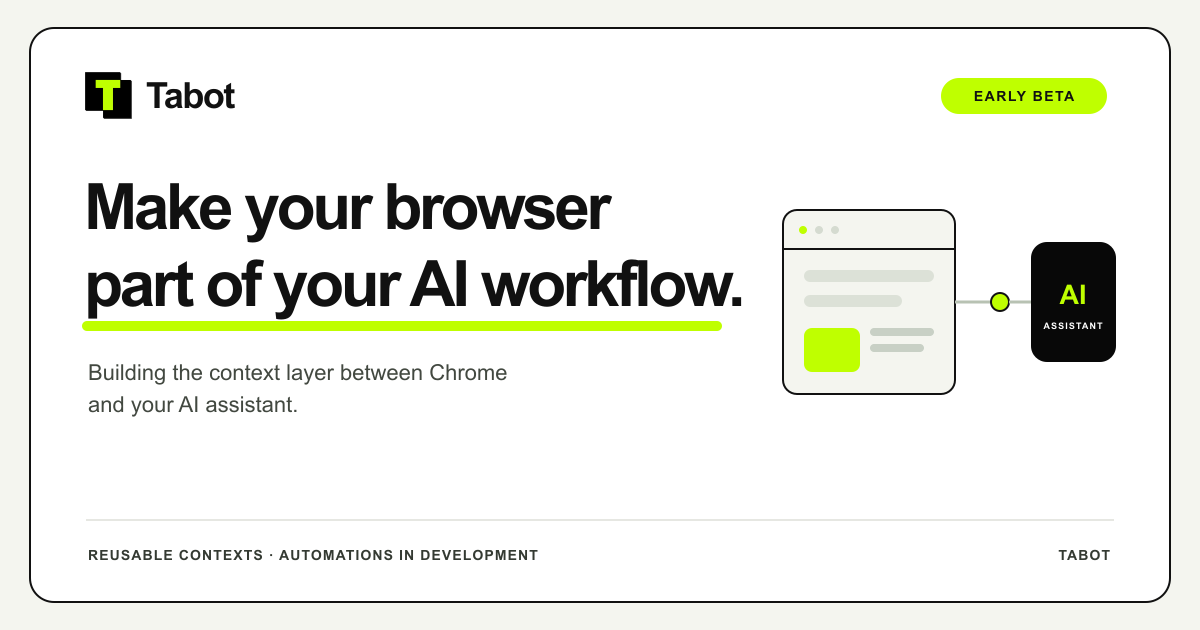
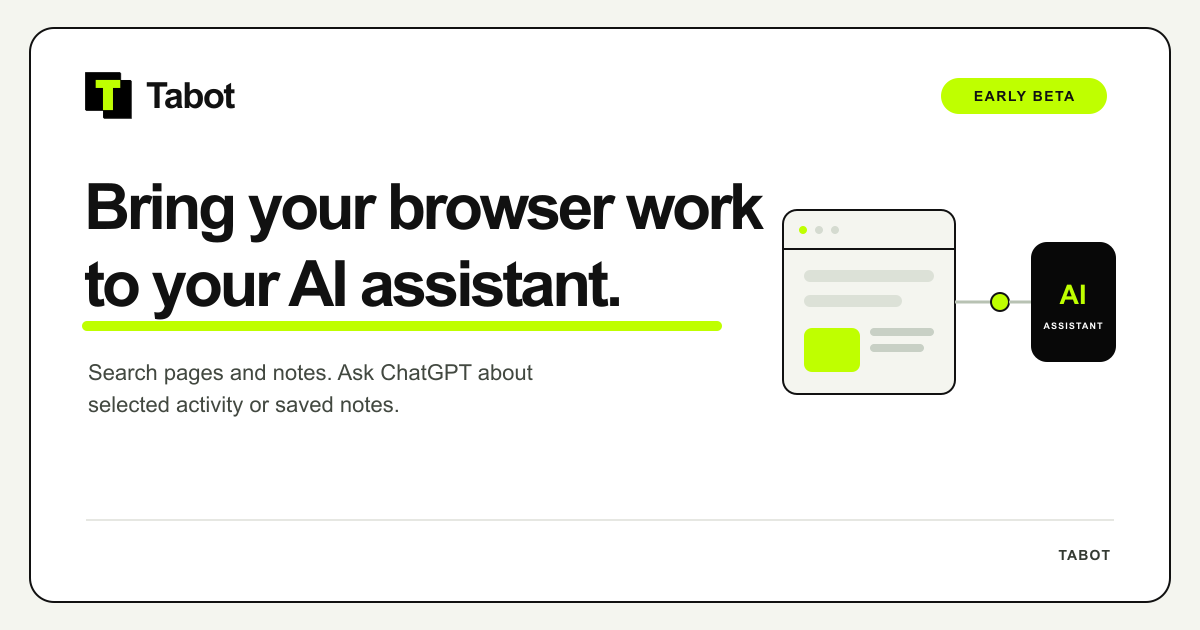
fix: polish mobile landing hero

diff --git a/apps/web/src/components/features/landing/demo/product-demo.tsx b/apps/web/src/components/features/landing/demo/product-demo.tsx
@@ -1,7 +1,9 @@
-import { MessageSquare, Search, StickyNote } from "lucide-react";
+import OpenAIMono from "@lobehub/icons/es/OpenAI/components/Mono";
+import { Search, StickyNote } from "lucide-react";
 import { useInView } from "motion/react";
 import { lazy, memo, Suspense, useRef, useState } from "react";
 import FluidTabs from "~/components/ui/motion/tabs/fluid-tabs";
+import { Skeleton } from "~/components/ui/skeleton";
 
 const ChatGptSearchDemo = lazy(
 	() => import("~/components/features/landing/demo/chatgpt-search-player"),
@@ -13,12 +15,46 @@ const NotesDemo = lazy(
 	() => import("~/components/features/landing/demo/notes-demo"),
 );
 
+const DemoLoading = ({
+	label,
+	className,
+}: {
+	label: string;
+	className: string;
+}) => (
+	<div
+		role="status"
+		aria-label={`Loading ${label} demo`}
+		className={`aspect-8/5 overflow-hidden rounded-2xl border border-work-line ${className}`}
+	>
+		<div
+			aria-hidden="true"
+			className="mx-auto flex h-full max-w-2xl flex-col gap-5 p-5 sm:gap-7 sm:p-8"
+		>
+			<div className="flex items-center gap-3 border-b border-current/10 pb-4">
+				<Skeleton className="size-7 shrink-0 rounded-full motion-reduce:animate-none" />
+				<Skeleton className="h-3 w-28 motion-reduce:animate-none" />
+				<Skeleton className="ml-auto h-3 w-12 motion-reduce:animate-none" />
+			</div>
+			<div className="mx-auto flex w-full max-w-lg flex-1 flex-col justify-center gap-4">
+				<Skeleton className="mx-auto h-4 w-2/5 motion-reduce:animate-none" />
+				<Skeleton className="h-11 w-full rounded-xl motion-reduce:animate-none" />
+				<div className="flex flex-col gap-3 pt-2">
+					<Skeleton className="h-3 w-full motion-reduce:animate-none" />
+					<Skeleton className="h-3 w-4/5 motion-reduce:animate-none" />
+					<Skeleton className="h-3 w-2/3 motion-reduce:animate-none" />
+				</div>
+			</div>
+		</div>
+	</div>
+);
+
 const scenes = [
 	{
 		id: "chatgpt",
 		title: "Search in ChatGPT",
 		shortTitle: "ChatGPT",
-		icon: MessageSquare,
+		icon: OpenAIMono,
 	},
 	{ id: "tabot", title: "Search in Tabot", shortTitle: "Tabot", icon: Search },
 	{ id: "notes", title: "Saved notes", shortTitle: "Notes", icon: StickyNote },
@@ -80,12 +116,10 @@ export const ProductDemo = memo(() => {
 							selected === 0 && inView ? (
 								<Suspense
 									fallback={
-										<div
-											role="status"
-											className="grid aspect-8/5 place-items-center rounded-2xl bg-tutorial-browser text-white"
-										>
-											Loading ChatGPT search…
-										</div>
+										<DemoLoading
+											label="ChatGPT search"
+											className="bg-tutorial-browser text-white"
+										/>
 									}
 								>
 									<ChatGptSearchDemo />
@@ -95,12 +129,10 @@ export const ProductDemo = memo(() => {
 							selected === 1 && inView ? (
 								<Suspense
 									fallback={
-										<div
-											role="status"
-											className="grid aspect-8/5 place-items-center rounded-2xl bg-background text-foreground"
-										>
-											Loading Tabot search…
-										</div>
+										<DemoLoading
+											label="Tabot search"
+											className="bg-background text-foreground"
+										/>
 									}
 								>
 									<TabotSearchDemo />
@@ -109,12 +141,10 @@ export const ProductDemo = memo(() => {
 						) : selected === 2 && inView ? (
 							<Suspense
 								fallback={
-									<div
-										role="status"
-										className="grid aspect-8/5 place-items-center rounded-2xl bg-[#eef0ec] text-work-muted"
-									>
-										Loading Notes demo…
-									</div>
+									<DemoLoading
+										label="saved notes"
+										className="bg-[#eef0ec] text-work-muted"
+									/>
 								}
 							>
 								<NotesDemo />

diff --git a/apps/web/src/components/features/landing/landing.css b/apps/web/src/components/features/landing/landing.css
@@ -154,14 +154,24 @@
 .void-pointer-reveal {
 	stroke-dasharray: 1;
 }
+/* Match the first animated frame before hydration; keep no-JS/reduced-motion text visible. */
+@media (scripting: enabled) and (prefers-reduced-motion: no-preference) {
+	.void-hero:not([data-intro="started"])
+		:is(.void-annotation-reveal, .void-pointer-tip) {
+		opacity: 0;
+	}
+	.void-hero:not([data-intro="started"]) .void-pointer-reveal {
+		stroke-dashoffset: 1;
+	}
+}
 .void-hero[data-intro="started"] .void-annotation-reveal {
-	animation: void-caption-in 550ms cubic-bezier(0.16, 1, 0.3, 1) 400ms both;
+	animation: void-caption-in 400ms cubic-bezier(0.16, 1, 0.3, 1) 1500ms both;
 }
 .void-hero[data-intro="started"] .void-pointer-reveal {
-	animation: void-pointer-draw 900ms cubic-bezier(0.45, 0, 0.2, 1) 950ms both;
+	animation: void-pointer-draw 900ms cubic-bezier(0.45, 0, 0.2, 1) 400ms both;
 }
 .void-hero[data-intro="started"] .void-pointer-tip {
-	animation: void-pointer-tip-in 220ms ease-out 1800ms both;
+	animation: void-pointer-tip-in 180ms ease-out 1300ms both;
 }
 .void-hero[data-motion="paused"]
 	:is(.void-annotation-reveal, .void-pointer-reveal, .void-pointer-tip) {
@@ -208,6 +218,15 @@
 	}
 	50% {
 		transform: translateY(-9px);
+	}
+}
+@keyframes void-float-mobile {
+	0%,
+	100% {
+		transform: translateY(0);
+	}
+	50% {
+		transform: translateY(-3px);
 	}
 }
 @keyframes void-illumination {
@@ -320,7 +339,17 @@
 	.void-annotation {
 		transform: translate(-200px, -20px);
 	}
-	.void-terrain-light {
+	/* Keep terrain assembled before hydration; only the small orb drifts on mobile. */
+	.void-hero :is(.void-stratum, .void-spill, .void-orb-shadow) {
+		animation: none;
+	}
+	.void-orb {
+		animation-name: void-float-mobile;
+		animation-duration: 8s;
+	}
+	.void-terrain-light,
+	.void-orb-shine,
+	.void-orb > circle[filter] {
 		display: none;
 	}
 	.void-copy {
@@ -403,38 +432,38 @@
 }
 .automation-head {
 	transform-origin: 532px 128px;
-	animation: automation-look 4.8s ease-in-out both;
+	animation: automation-look 4.8s ease-in-out infinite;
 }
 .automation-gaze {
-	animation: automation-gaze 4.8s ease-in-out both;
+	animation: automation-gaze 4.8s ease-in-out infinite;
 }
 .automation-eyes {
 	transform-box: fill-box;
 	transform-origin: center;
-	animation: automation-blink 4.8s linear both;
+	animation: automation-blink 4.8s linear infinite;
 }
 .automation-forearm {
 	transform-origin: 625px 177px;
 	transform: rotate(10deg);
-	animation: automation-tap 4.8s cubic-bezier(0.22, 1, 0.36, 1) both;
+	animation: automation-tap 4.8s cubic-bezier(0.22, 1, 0.36, 1) infinite;
 }
 .automation-play {
 	transform-origin: 581px 274px;
-	animation: automation-press 4.8s ease-in-out both;
+	animation: automation-press 4.8s ease-in-out infinite;
 }
 .automation-click-ring {
 	transform-origin: 581px 274px;
 	opacity: 0;
-	animation: automation-click 4.8s ease-out both;
+	animation: automation-click 4.8s ease-out infinite;
 }
 .automation-step-0 .automation-step-done {
-	animation: automation-first 4.8s ease-in-out both;
+	animation: automation-first 4.8s ease-in-out infinite;
 }
 .automation-step-1 .automation-step-done {
-	animation: automation-second 4.8s ease-in-out both;
+	animation: automation-second 4.8s ease-in-out infinite;
 }
 .automation-step-2 .automation-step-done {
-	animation: automation-third 4.8s ease-in-out both;
+	animation: automation-third 4.8s ease-in-out infinite;
 }
 .automation-scene[data-motion="paused"] * {
 	animation-play-state: paused;

diff --git a/apps/web/src/routes/index.tsx b/apps/web/src/routes/index.tsx
@@ -2,9 +2,9 @@ import { createFileRoute } from "@tanstack/react-router";
 import { LandingPage } from "~/components/features/landing/landing-page";
 import { OG_IMAGE_URL, SHARE_URL } from "~/lib/constants";
 
-const title = "Tabot — Your browsing context for ChatGPT";
+const title = "Tabot — Bring your browser work to your AI assistant";
 const description =
-	"Tabot helps you find things you've looked at in Chrome and save your own takeaways, so you can bring your browsing context to ChatGPT.";
+	"Search pages and notes, review browser activity, and ask ChatGPT about selected activity or saved notes.";
 
 export const Route = createFileRoute("/")({
 	head: () => ({
@@ -22,7 +22,8 @@ export const Route = createFileRoute("/")({
 			{ property: "og:image:height", content: "630" },
 			{
 				property: "og:image:alt",
-				content: "Tabot local search and a requested note in ChatGPT.",
+				content:
+					"Tabot helps you search pages and notes, review browser activity, and ask ChatGPT about selected results.",
 			},
 			{ name: "twitter:card", content: "summary_large_image" },
 			{ name: "twitter:title", content: title },
@@ -30,7 +31,8 @@ export const Route = createFileRoute("/")({
 			{ name: "twitter:image", content: OG_IMAGE_URL },
 			{
 				name: "twitter:image:alt",
-				content: "Tabot local search and a requested note in ChatGPT.",
+				content:
+					"Tabot helps you search pages and notes, review browser activity, and ask ChatGPT about selected results.",
 			},
 		],
 	}),

diff --git a/apps/web/src/components/features/landing/sections/closing-section.tsx b/apps/web/src/components/features/landing/sections/closing-section.tsx
@@ -30,7 +30,7 @@ export const ClosingSection = ({
 				strokeDashoffset={100}
 				strokeLinecap="round"
 				strokeWidth="6"
-				className="animate-[zigzag-pulse_4800ms_ease-out_infinite] motion-reduce:hidden"
+				className="animate-[zigzag-pulse_2000ms_ease-out_infinite] motion-reduce:hidden"
 			/>
 		</svg>
 		<div className="relative mx-auto max-w-3xl">
@@ -40,9 +40,9 @@ export const ClosingSection = ({
 			>
 				Search your browser activity. Connect ChatGPT when you need it.
 			</h2>
-			<p className="mx-auto mb-8 mt-5 max-w-lg text-lg leading-relaxed text-work-muted">
-				Search pages and notes on this device. Connect ChatGPT for captured site
-				activity or a saved note.
+			<p className="mx-auto mb-8 mt-5 max-w-lg text-base leading-relaxed text-work-muted">
+				Find pages you’ve visited, save useful notes, and ask ChatGPT about the
+				details you choose.
 			</p>
 			<InstallLink connected={connected} mobile={mobile} />
 		</div>

diff --git a/apps/web/src/components/features/landing/artwork/void-art.tsx b/apps/web/src/components/features/landing/artwork/void-art.tsx
@@ -12,7 +12,7 @@ export const VoidArt = memo(() => {
 			viewBox="0 0 1440 940"
 			preserveAspectRatio="xMidYMid slice"
 			role="img"
-			aria-label="Lost in all that context? That little light is Tabot. An arrow points to the glowing orb."
+			aria-label="Lost in a stack of context? That light is Tabot. An arrow points to the glowing orb."
 			focusable="false"
 		>
 			<defs>
@@ -177,11 +177,11 @@ export const VoidArt = memo(() => {
 						<text
 							x="750"
 							y="458"
-							className="fill-work-ink font-sans text-base font-normal"
+							className="fill-work-ink font-sans text-sm font-normal"
 						>
-							<tspan x="750">Lost in all that context?</tspan>
-							<tspan x="750" dy="24">
-								That little light is Tabot.
+							<tspan x="750">Lost in a stack of context?</tspan>
+							<tspan x="750" dy="21" className="fill-work-ink font-medium">
+								That light is Tabot.
 							</tspan>
 						</text>
 					</g>

diff --git a/apps/web/src/components/features/landing/landing-page.tsx b/apps/web/src/components/features/landing/landing-page.tsx
@@ -77,8 +77,8 @@ export const LandingPage = () => {
 							</h2>
 							<p className="mx-auto mt-5 max-w-xl text-lg leading-relaxed text-work-muted">
 								ChatGPT can use selected context from your browsing when you
-								ask. In Tabot, search that browsing context across saved pages,
-								activity, and notes.
+								ask. In Tabot, search that browsing context across pages, sites,
+								and notes.
 							</p>
 						</div>
 						<ProductDemo />
